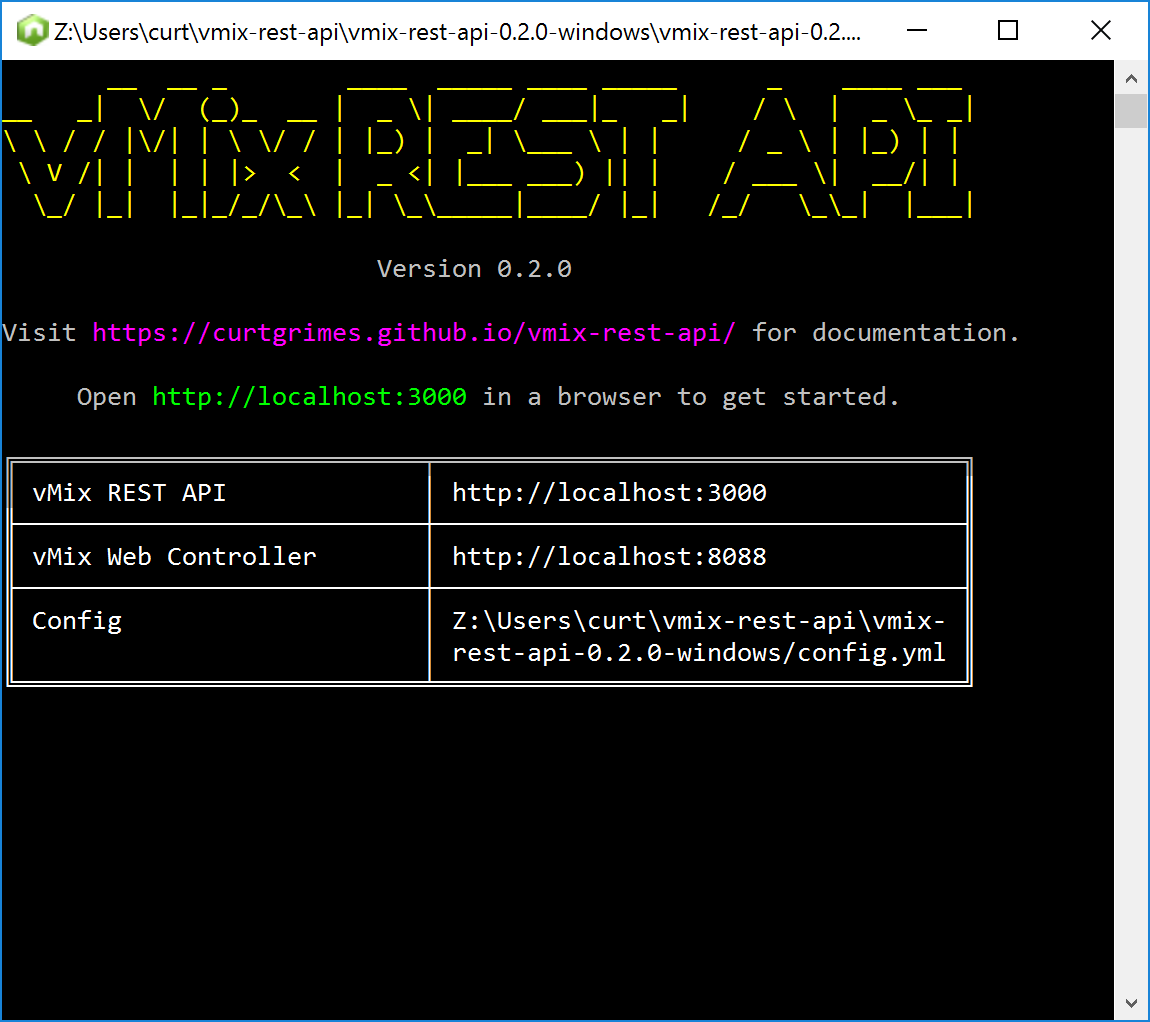
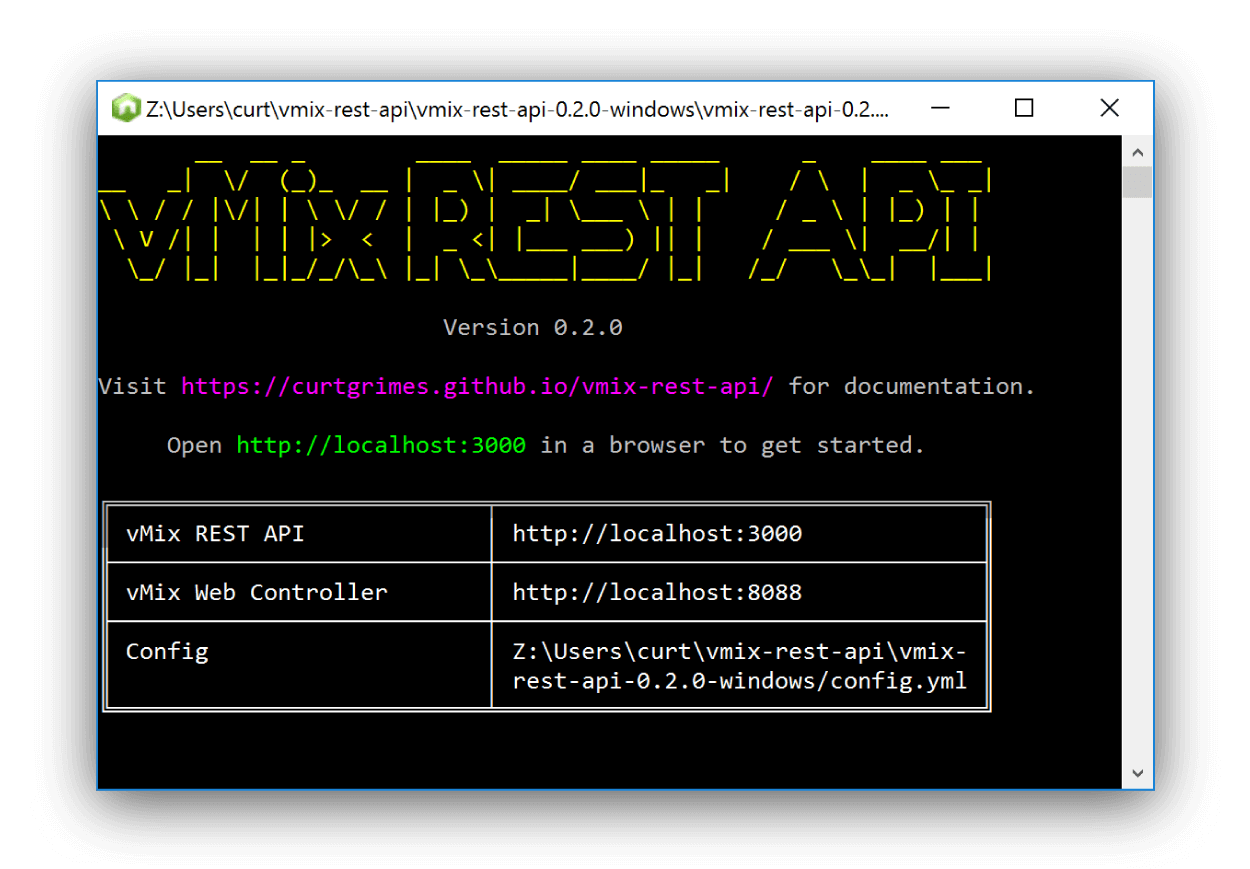
Add new screenshot and update readme

diff --git a/README.md b/README.md
@@ -1,4 +1,10 @@
-# vMix REST API
+<h1 align="center">
+  <br>
+  <img src="/docs/screenshot.png?raw=true" alt="vMix REST API" width="500">
+  <br>
+  vMix REST API
+  <br>
+</h1>
 
 This is a REST API that developers can use to interact with the <a href="https://www.vmix.com/" target="_blank">vMix Live Production & Streaming Software</a>. It supplements and runs alongside vMix's <a href="https://www.vmix.com/help17/index.htm?DeveloperAPI.html">built-in XML-based API</a>.
 
